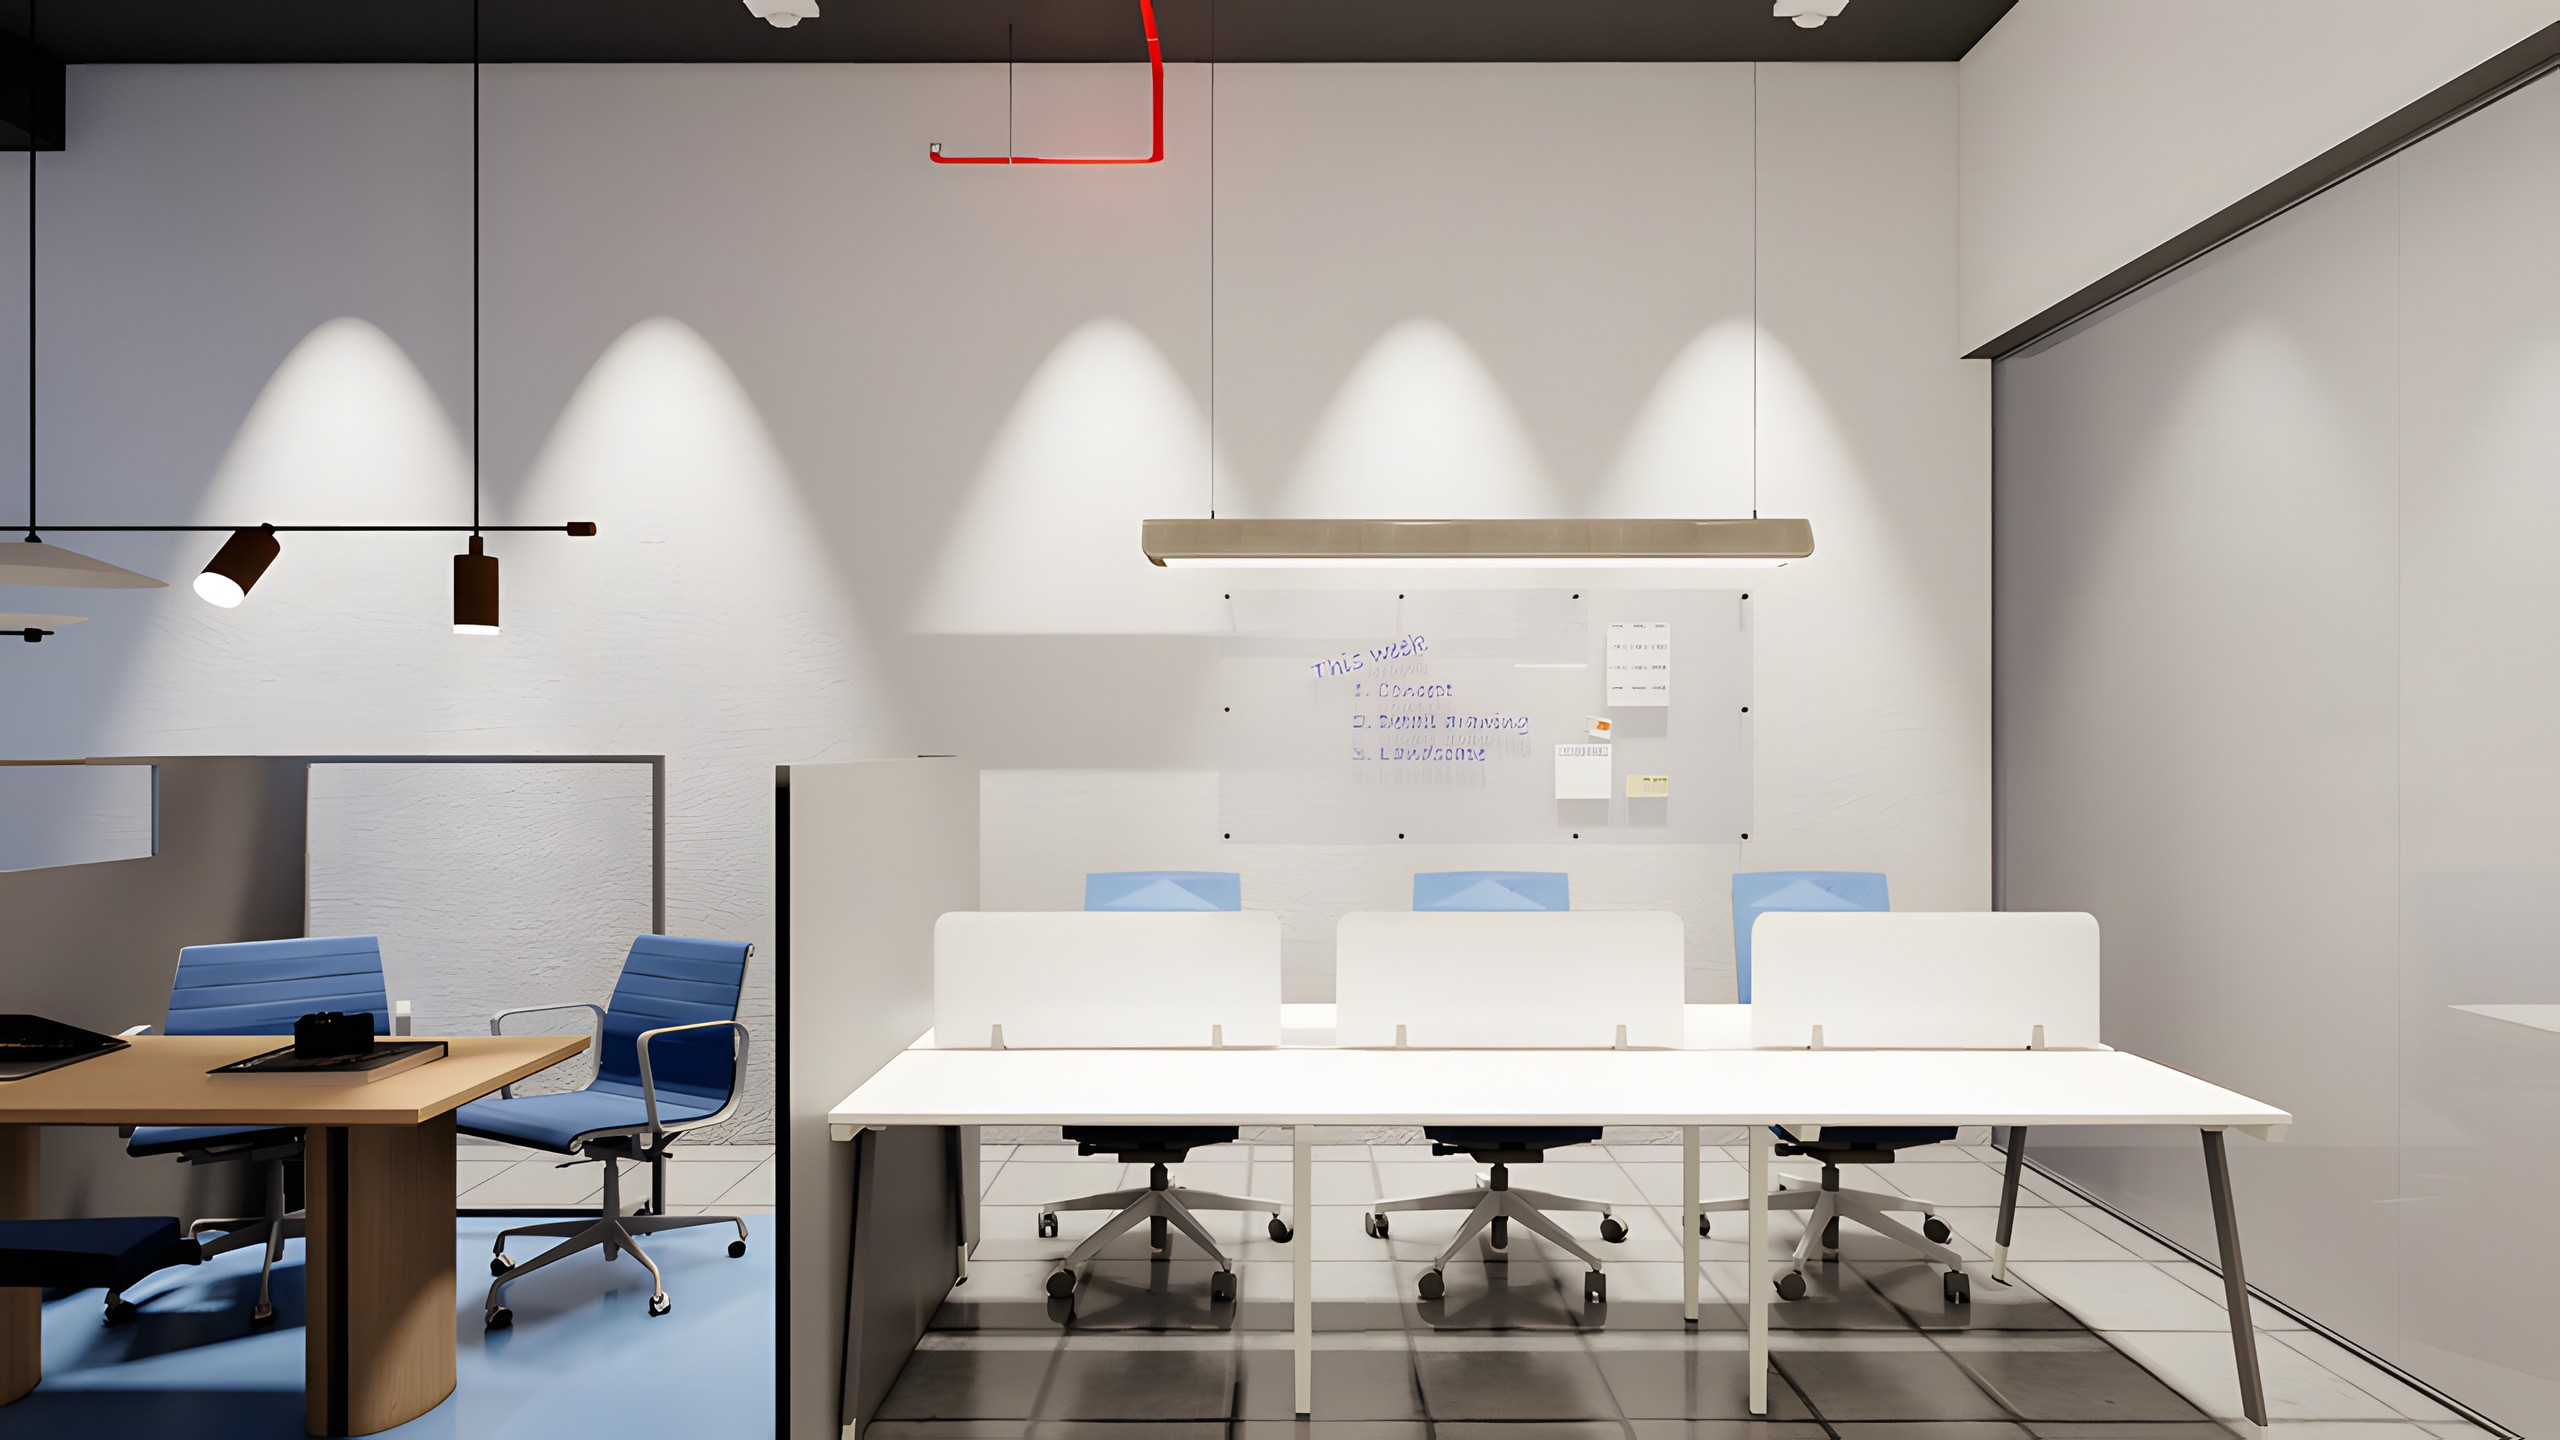
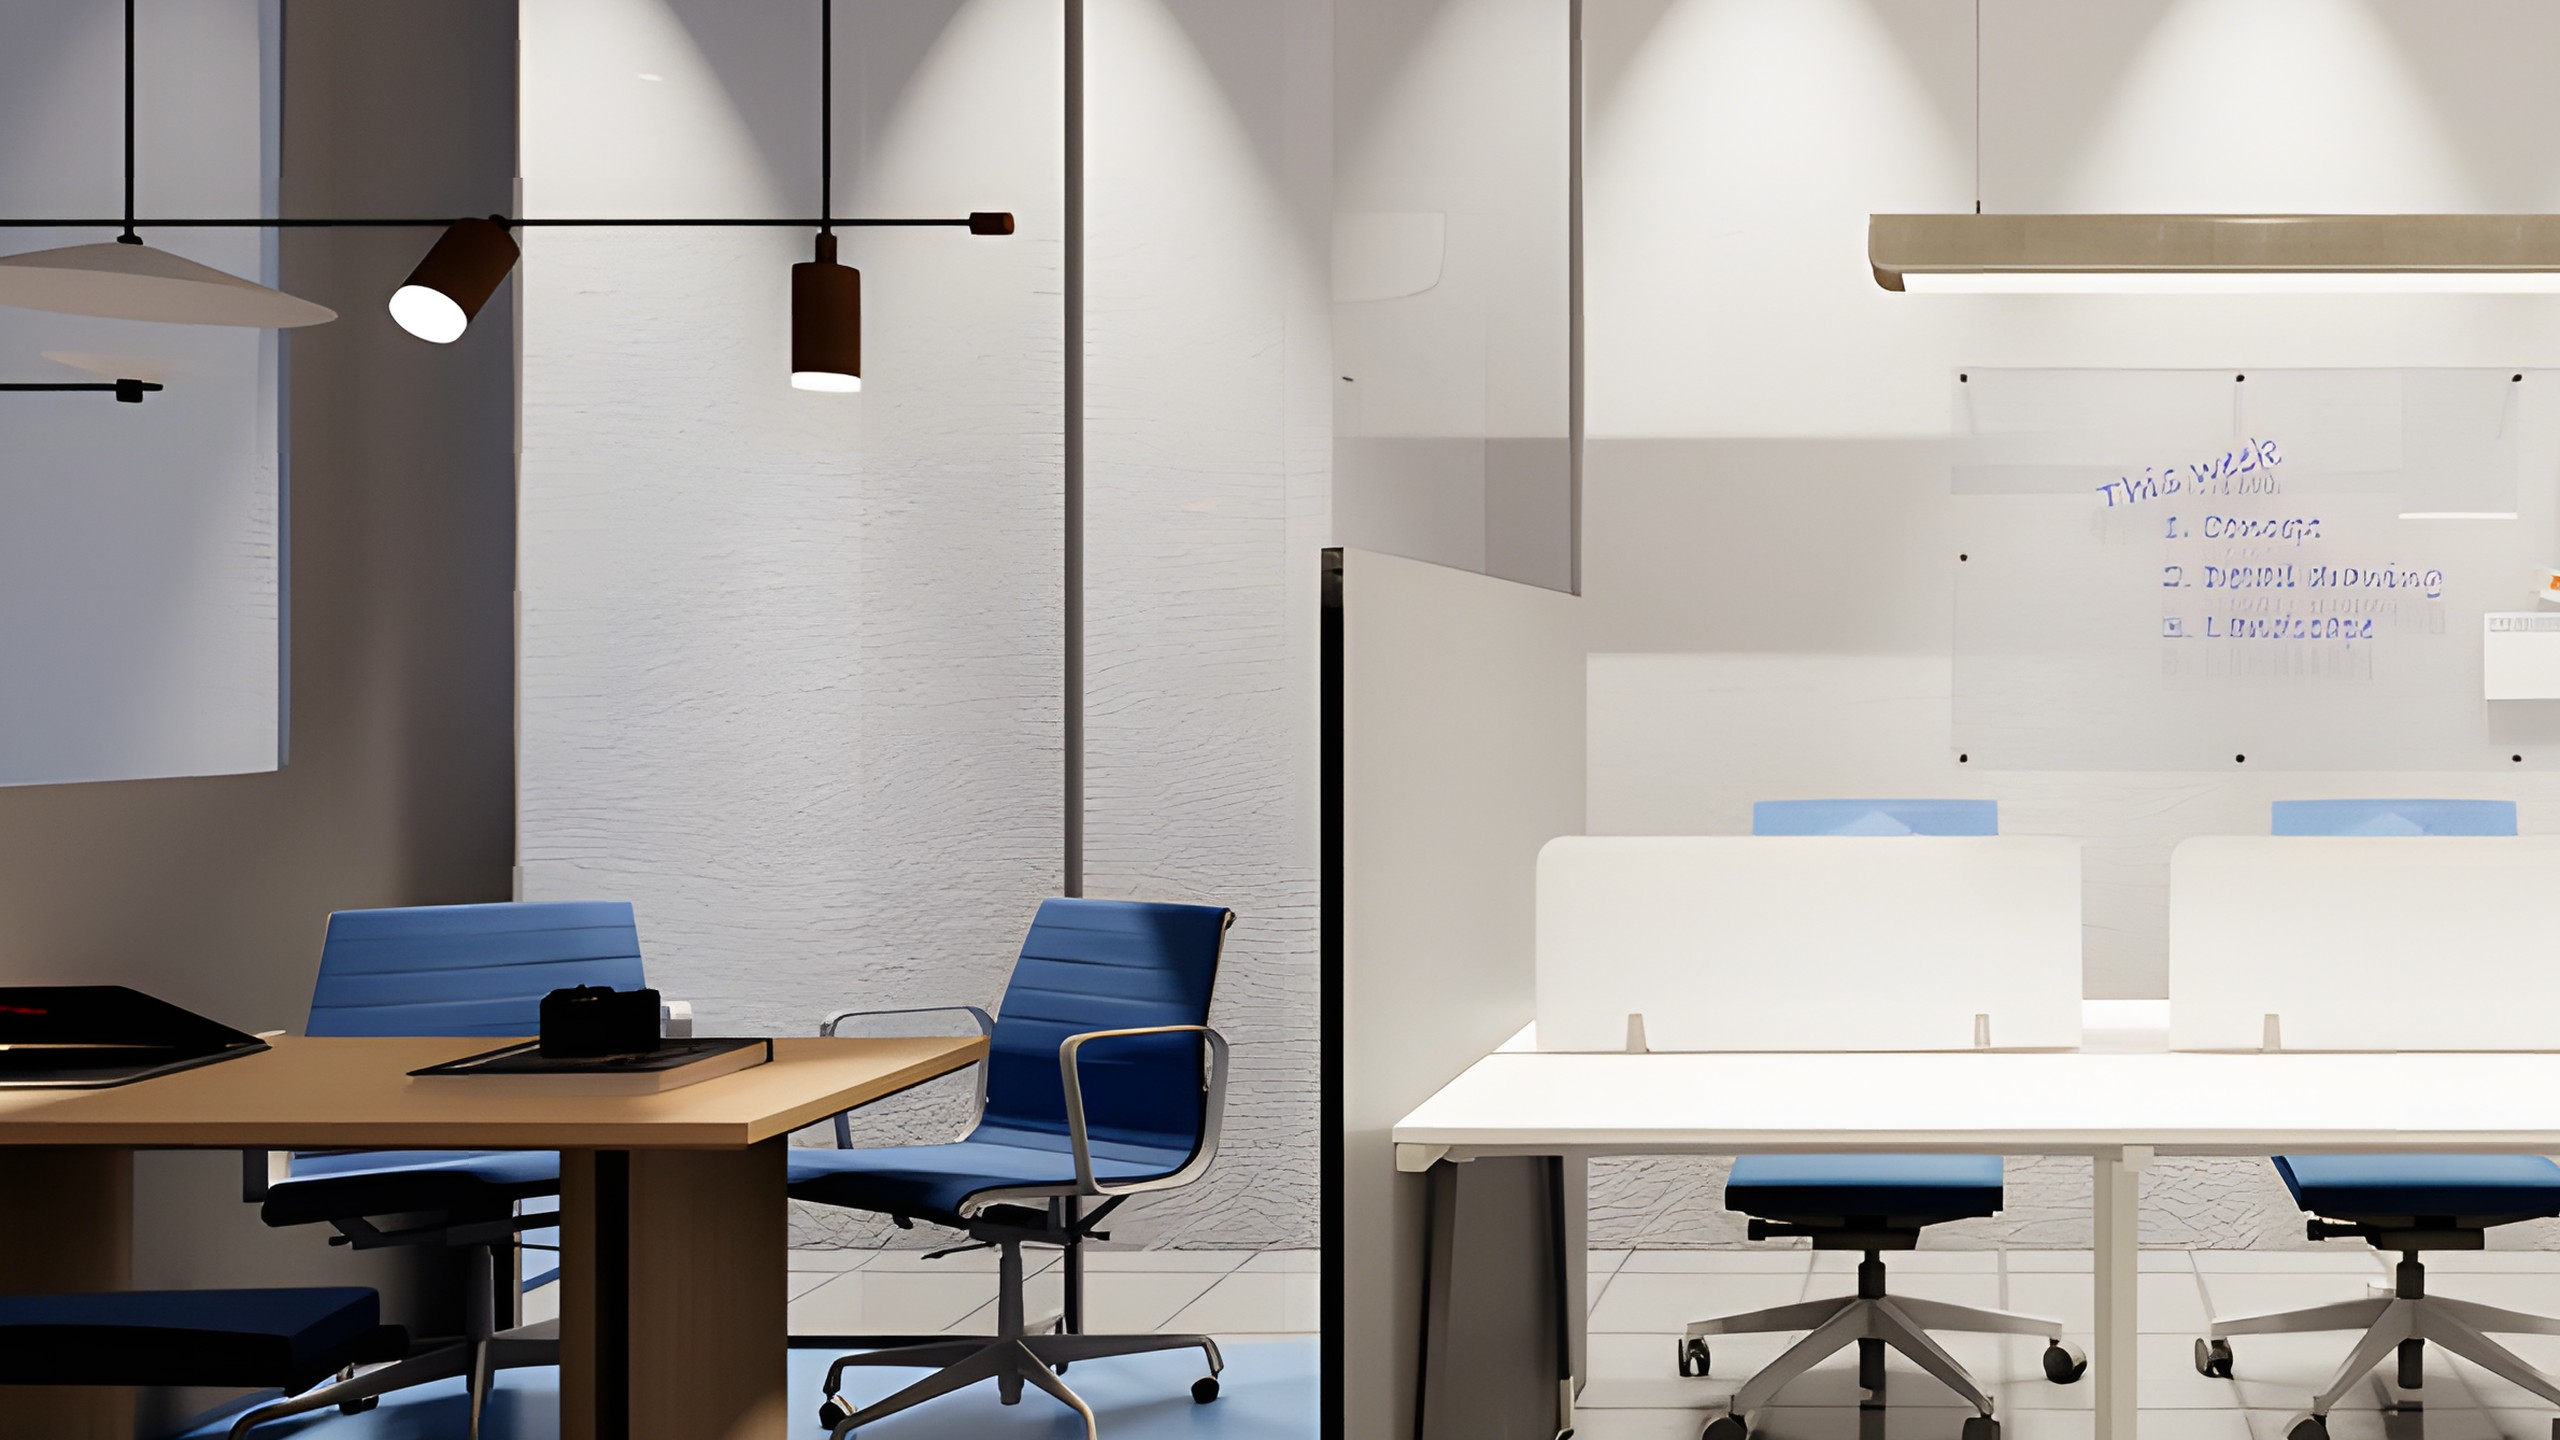
Gaur City: two close-ups in place of the daylight repeats
The daylight twins of the hero and workstation views become close-ups
of the MD's cubicle and the director's desk.

diff --git a/src/data/spacesProjects.js b/src/data/spacesProjects.js
@@ -809,7 +809,7 @@ export const spacesProjects = [
     ],
     mosaic: [
       photo("gaur-city-office/mosaic-1.jpg", "The meeting table along the window wall, six blue chairs under the exposed ceiling"),
-      photo("gaur-city-office/mosaic-2.jpg", "The meeting table and the MD's cubicle in daylight"),
+      photo("gaur-city-office/mosaic-2.jpg", "Inside the MD's cubicle: a walnut desk, two blue chairs and the curved glass wall"),
       photo("gaur-city-office/mosaic-3.jpg", "The leisure corner in daylight, the MD's cubicle beyond"),
     ],
     concept: {
@@ -856,7 +856,7 @@ export const spacesProjects = [
         points: ["Six desks, one MD cubicle, one meeting table", "A leisure corner with daylight", "The brand's blue carried throughout"],
       },
     ],
-    voiceImage: photo("gaur-city-office/voice.jpg", "The workstations in daylight, with plants on the screens and the pinboard behind"),
+    voiceImage: photo("gaur-city-office/voice.jpg", "The director's desk at the head of the workstation run, the pinboard and pendant beyond"),
     results: [
       { value: "6", label: "Workstations in a single run" },
       { value: "1", label: "MD cubicle in curved glass" },
